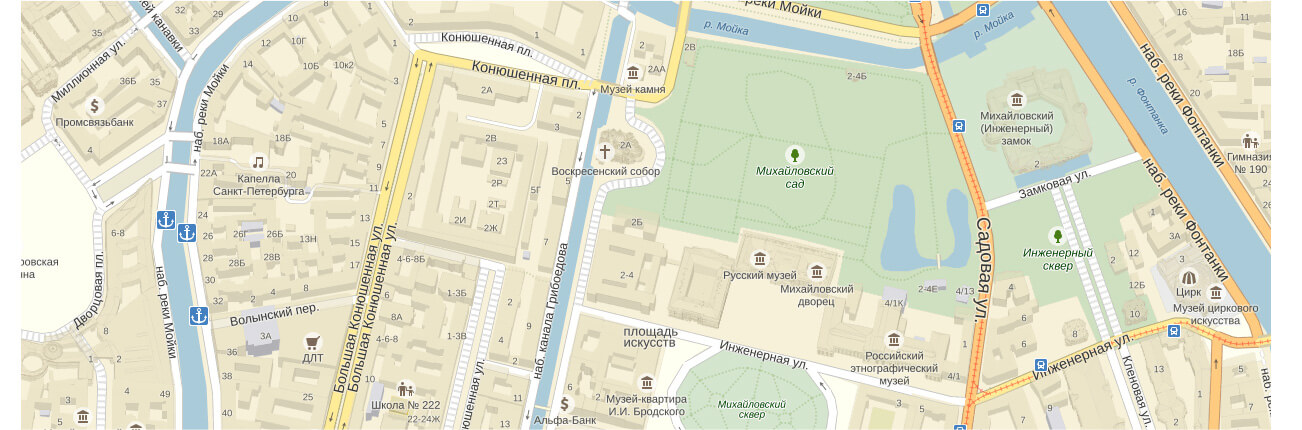
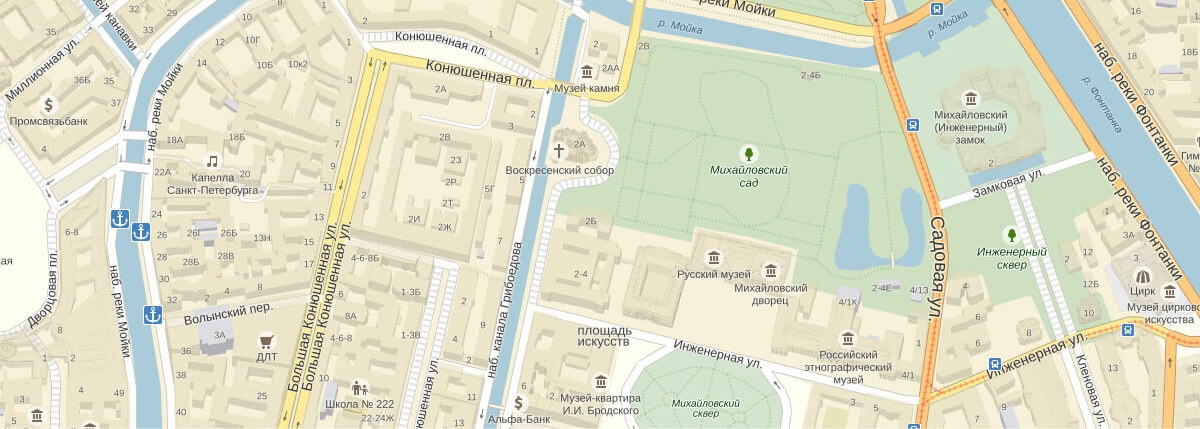
Стилизация макросетки главной страницы

diff --git a/css/style.css b/css/style.css
@@ -591,11 +591,16 @@ a:active {
 }
 
 .mailing input:hover {
+  padding-left: 14px;
   border: 2px solid rgba(154, 154, 154, 0.52);
+  box-sizing: border-box;
 }
 
 .mailing input:focus {
+  padding-left: 14px;
   border: 2px solid rgba(46, 136, 228, 0.52);
+  box-sizing: border-box;
+  outline: none;
 }
 
 .mailing input::placeholder {
@@ -608,13 +613,39 @@ a:active {
   margin: auto 0 0 auto;
 }
 
-.map-contact-info {
-  background-color: #ffffff;
+.map {
+  display: flex;
+  justify-content: flex-end;
+  align-items: center;
+  width: 1200px;
+  min-height: 430px;
+  margin-left: -27px;
+  background-image: url("../img/map.jpg");
+  background-position: 0 0;
+  background-repeat: no-repeat;
 }
 
-.map-contact-info .button,
-.mailing .button {
-  color: #fefefe;
+.map-contact-info {
+  display: flex;
+  flex-direction: column;
+
+  width: 302px;
+  margin: auto 27px;
+  padding: 30px 25px;
+  box-sizing: border-box;
+
+  background-color: #ffffff;
+  border-radius: 10px;
+}
+
+.map-contact-info p {
+  margin: 0;
+
+
+}
+
+p.offline-contacts {
+  margin-bottom: 17px;
 }
 
 .offline-contacts {
@@ -642,6 +673,15 @@ a:active {
 .online-contacts-worktime {
   font-size: 14px;
   line-height: 22px;
+}
+
+.map-contact-info .button {
+  margin-top: 25px;
+}
+
+.map-contact-info .button,
+.mailing .button {
+  color: #fefefe;
 }
 
 .pagination-list {
@@ -682,20 +722,61 @@ a:active {
   background-color: none;
 }
 
+.main-footer {
+  display: flex;
+  width: 1200px;
+  margin: 0 auto;
+
+  outline: 2px solid rgba(0, 0, 255, 0.5);
+}
+
 .footer-social {
+  display: flex;
+
+  width: 200px;
+
   list-style: none;
 }
 
+.footer-social li {
+  margin-right: 11px;
+  margin-top: 36px;
+}
+
 .footer-info {
+  display: flex;
+  flex-wrap: wrap;
+
+  width: 350px;
+  margin-top: 35px;
+  margin-left: 225px;
+  padding: 0;
+
+
   list-style: none;
   font-size: 13px;
   line-height: 18px;
 }
 
+.footer-info li {
+  width:165px;
+}
+
 .footer-copyright {
+  width: 190px;
+  margin: 18px 27px auto auto;
+  margin-top: 18px;
+
   font-size: 12px;
   line-height: 18px;
   color: #fefefe;
+}
+
+.footer-logo,
+.footer-logo:hover,
+.footer-logo:focus,
+.footer-logo:active {
+  border-color: transparent;
 }
 
 /* разметка попапов */

diff --git a/index.html b/index.html
@@ -15,7 +15,7 @@
         <nav class="main-navigation">
           <ul class="site-navigation">
             <li class="site-navigation-item">
-              <a href="#">Каталог</a>
+              <a href="catalog.html">Каталог</a>
               <ul class="drop-down-menu">
                 <li class="new-in-catalog">
                   <a href="#">Новинки</a>
@@ -167,7 +167,6 @@
 
       <section class="map">
         <h2 class="visually-hidden">Как заказать</h2>
-        <img src="img/map.jpg" width="1200" height="430" alt="Адрес офиса на карте">
         <div class="map-contact-info">
           <p class="offline-contacts">Адрес главного офиса и офлайн-магазина:
             <br>
@@ -193,12 +192,12 @@
       </ul>
       <ul class="footer-info">
         <li><a href="#"><b>Для поставщиков</b></a></li>
-        <li><a href="#">О производстве</a></li>
         <li><a href="#">Наши документы</a></li>
+        <li><a href="#">О производстве</a></li>
         <li><a href="#">Экологические стандарты</a></li>
       </ul>
       <p class="footer-copyright">
-        <img src="img/logo-htmlacademy.svg" width="108" height="39" alt="Логотип HTML Academy">
+        <a href="https://htmlacademy.ru/intensive/htmlcss" class="footer-logo"><img src="img/logo-htmlacademy.svg" width="108" height="39" alt="Логотип HTML Academy"></a><br>
         Сделано в <a href="https://htmlacademy.ru/intensive/htmlcss">HTML Academy</a> &#169; 2019
       </p>
     </footer>
